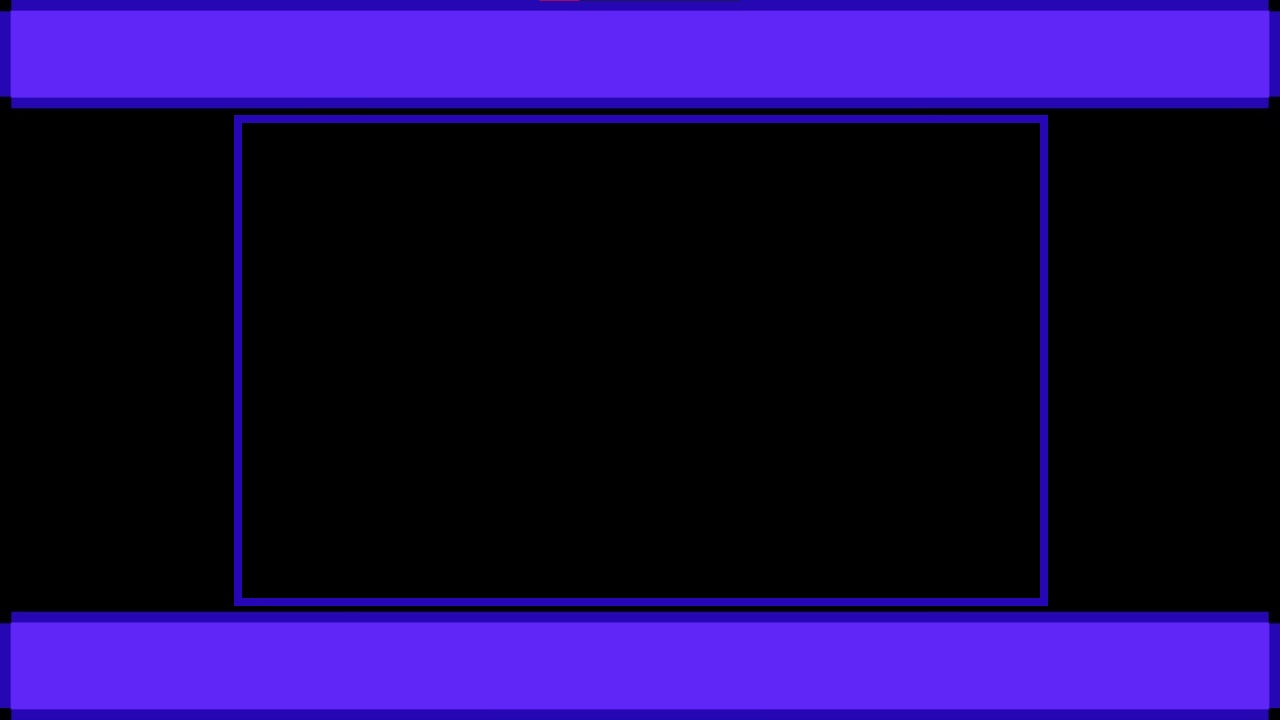
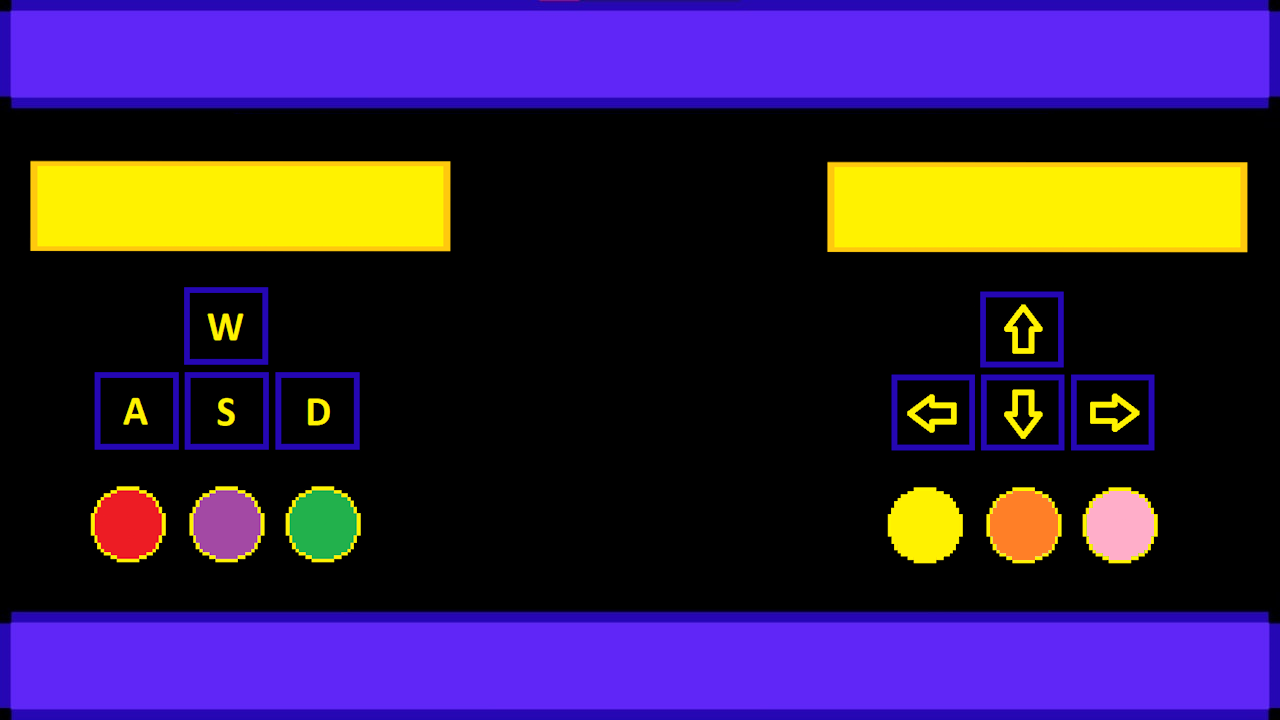
added img multiplayer-menu and released multiplayer menu for two users

Changed region(s): [[0.0, 0.1528, 1.0, 0.8556]]

diff --git a/src/main.cpp b/src/main.cpp
@@ -814,11 +814,112 @@ void MultiplayerMenu(RenderWindow& window, Font& font, double width, double heig
     TitulMultiplayer.setFont(font);
     InitText(TitulMultiplayer, 600, -80, L"MULTIPLAYER", 200, Color::Yellow, 3, Color::Black);
 
+    Text TitulName;
+    TitulName.setFont(font);
+    InitText(TitulName, 825, 150, L"NAME", 200, Color::Yellow, 3, Color::Blue);
+
+    Text TitulGame;
+    TitulGame.setFont(font);
+    InitText(TitulGame, 825, 400, L"GAME", 200, Color::Yellow, 3, Color::Blue);
+
+    Text TitulColor;
+    TitulColor.setFont(font);
+    InitText(TitulColor, 800, 625, L"COLOR", 200, Color::Yellow, 3, Color::Blue);
+    
+    String countColors[]{ L"1",L"2", L"3" };
+
+    game::Settings firstPlayerColor(window, 175, 810, 3, countColors, 90, 150);
+
+    firstPlayerColor.setColorTextMenu(Color::Blue, Color::Yellow, Color::Black);  
+
+    game::Settings secondPlayerColor(window, 1375, 810, 3, countColors, 90, 150);
+
+    secondPlayerColor.setColorTextMenu(Color::Blue, Color::Yellow, Color::Black);
+
+    int page = 0;
+    Text nameFirstPlayer("", font, 20);
+    Text nameSecondPlayer("", font, 20);
+
     while (window.isOpen())
     {
         Event event;
         while (window.pollEvent(event))
         {
+            switch (page)
+            {
+            case 0:
+                if (event.type == Event::TextEntered)
+                {
+                    std::string text = nameFirstPlayer.getString();
+                    int digit = event.text.unicode;
+                    if (text.length() < 12) {
+                        nameFirstPlayer.setString(text + (char)(digit));
+                    }
+                    if (digit == 57) {
+                        nameFirstPlayer.setString(text + '9');
+                    }
+                    if (digit == 8) {
+                        nameFirstPlayer.setString(text.substr(0, text.length() - 1));
+                    }
+                    InitText(nameFirstPlayer, 100, 230, nameFirstPlayer.getString(), 100, Color::Blue, 3, Color::Black);
+                }
+                if (event.type == Event::KeyReleased)
+                {
+                    if (event.key.code == Keyboard::Return)
+                    {
+                        page = 1;
+                    }
+                }
+                break;
+            case 1 :
+                if (event.type == Event::KeyReleased)
+                {
+                    if (event.key.code == Keyboard::Left) { firstPlayerColor.MovePrev(); }
+                    if (event.key.code == Keyboard::Right) { firstPlayerColor.MoveNext(); }
+
+                    if (event.key.code == Keyboard::Return)
+                    {
+                        page = 2;
+                    }
+                }
+                break;
+            case 2:
+                if (event.type == Event::TextEntered)
+                {
+                    std::string text = nameSecondPlayer.getString();
+                    int digit = event.text.unicode;
+                    if (text.length() < 12) {
+                        nameSecondPlayer.setString(text + (char)(digit));
+                    }
+                    if (digit == 57) {
+                        nameSecondPlayer.setString(text + '9');
+                    }
+                    if (digit == 8) {
+                        nameSecondPlayer.setString(text.substr(0, text.length() - 1));
+                    }
+                    InitText(nameSecondPlayer, 1300, 230, nameSecondPlayer.getString(), 100, Color::Blue, 3, Color::Black);
+                }
+                if (event.type == Event::KeyReleased)
+                {
+                    if (event.key.code == Keyboard::Return)
+                    {
+                        page = 3;
+                    }
+                }
+                break;
+            case 3:
+                if (event.type == Event::KeyReleased)
+                {
+                    if (event.key.code == Keyboard::Left) { secondPlayerColor.MovePrev(); }
+                    if (event.key.code == Keyboard::Right) { secondPlayerColor.MoveNext(); }
+                    if (event.key.code == Keyboard::Return)
+                    {
+                        PlayGame(window, font, width, height);
+                    }
+                }
+                break;
+            };
+
            if (event.type == Event::KeyPressed)
             {
                 if (event.key.code == Keyboard::Escape) { MainMenu(window, font, 1920, 1080); }
@@ -827,6 +928,13 @@ void MultiplayerMenu(RenderWindow& window, Font& font, double width, double heig
         window.clear();
         window.draw(background);
         window.draw(TitulMultiplayer);
+        window.draw(TitulName);
+        window.draw(TitulGame);
+        window.draw(TitulColor);
+        window.draw(nameFirstPlayer);
+        window.draw(nameSecondPlayer);
+        firstPlayerColor.draw();
+        secondPlayerColor.draw();
         window.display();
     }
 }
